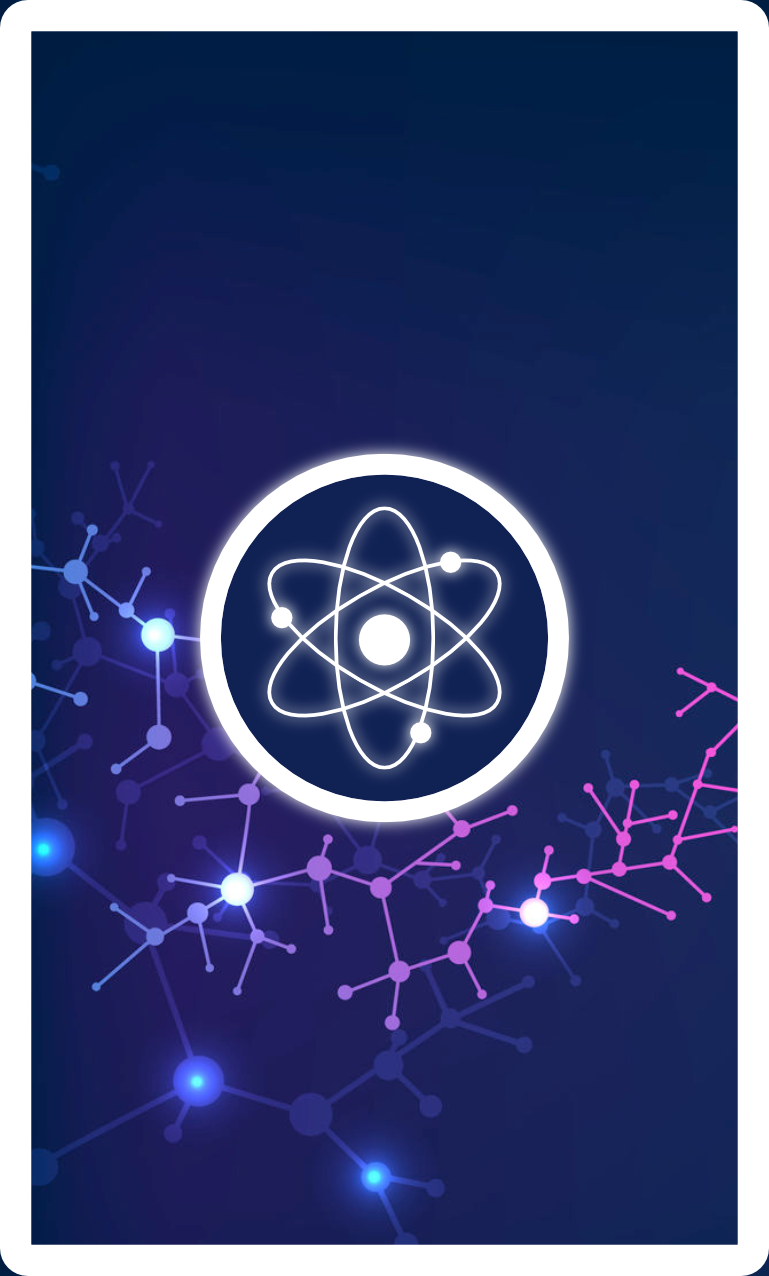
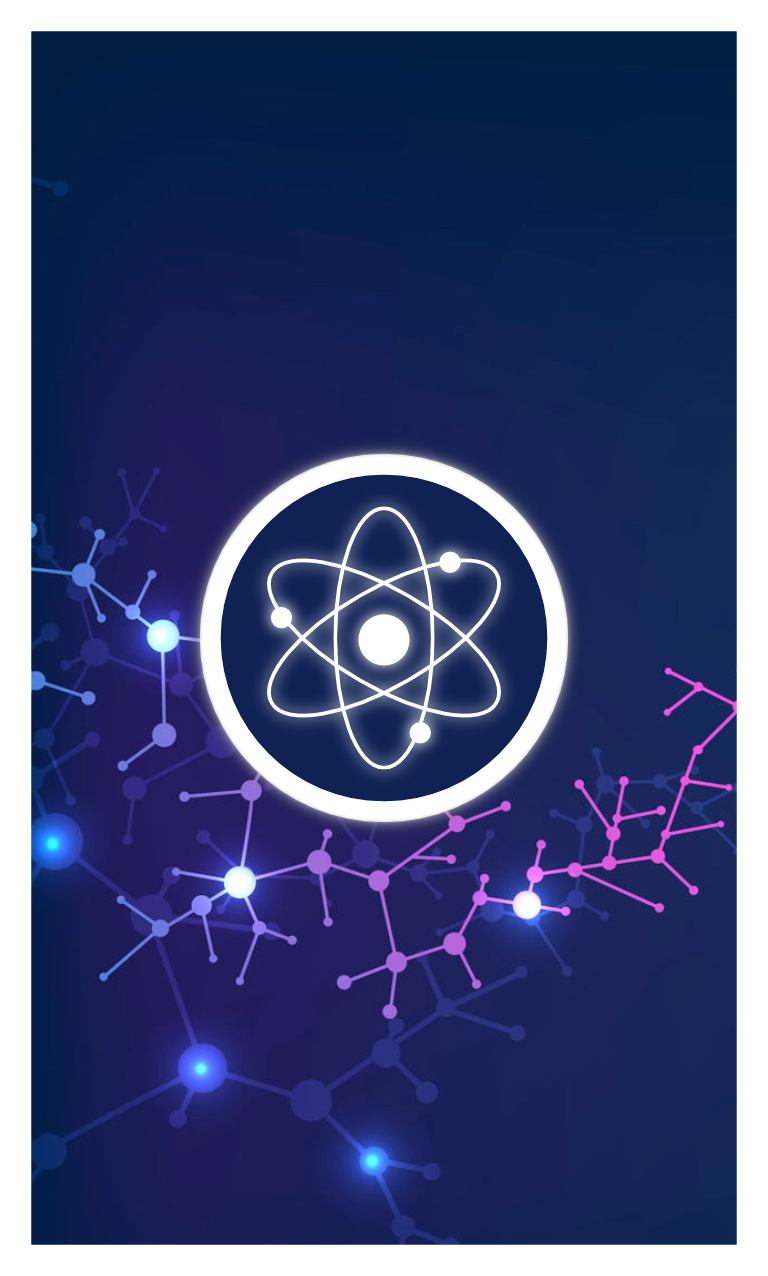
[Card] Modifying description to fit inside cards with increased font size

diff --git a/generate_printing_cards.py b/generate_printing_cards.py
@@ -16,9 +16,12 @@ PAPER_FORMAT_TO_PX_300DPI_MAP = {
 
 def get_n_margin(paper_px, card_px):
     n = int(floor(float(paper_px) / float(card_px)))
-    margin = floor( (float(paper_px) - n * float(card_px)) / float(n+1) )
 
-    return n, margin
+    margin = floor( (float(paper_px) - n * float(card_px)) / float(n+1) )
+    margin_left = margin
+    margin_right = paper_px - n * (margin + card_px)
+
+    return n, margin, margin_left, margin_right
 
 
 if __name__ == "__main__":
@@ -27,7 +30,9 @@ if __name__ == "__main__":
     printing_format = "A4"
     card_dirpath = "/Users/julien/Documents/Projects/tradecards_atom/outputs"
     output_dir = "/Users/julien/Documents/Projects/tradecards_atom/outputs/sheets"
-    show_sheet = False
+    front_card_filepath = "/Users/julien/Documents/Projects/tradecards_atom/assets/front.png"
+    generate_front_card = True
+    show = False
     save = True
     save_as_one_file = True
 
@@ -57,8 +62,8 @@ if __name__ == "__main__":
     paper_px_size = PAPER_FORMAT_TO_PX_300DPI_MAP[printing_format]
     card_px_size = (768, 1276)
 
-    nx, margin_x = get_n_margin(paper_px_size[0], card_px_size[0])
-    ny, margin_y = get_n_margin(paper_px_size[1], card_px_size[1])
+    nx, margin_x, margin_x_left, margin_x_right = get_n_margin(paper_px_size[0], card_px_size[0])
+    ny, margin_y, margin_y_top, margin_y_bottom = get_n_margin(paper_px_size[1], card_px_size[1])
 
     nb_cards_per_paper = int(nx * ny)
     print(f"Expecting {nb_cards_per_paper} cards per paper sheet")
@@ -67,25 +72,51 @@ if __name__ == "__main__":
     print(f"Expecting {nb_paper_sheets} paper sheets")
 
 
+    # FRONT CARD IMAGE GENERATION
+    if generate_front_card:
+        print("Generating front-card image")
+        front_card_img = Image.open(front_card_filepath).convert("RGBA")
+        front_card_sheet_img = Image.new("RGBA", paper_px_size, (255,255,255))
+
+        for i in range(0, nx*ny):
+            k = i
+            x = k%nx
+            y = floor(k/nx)
+
+            border_x = margin_x_right + x * (card_px_size[0] + margin_x)
+            border_y = margin_y_top + y * (card_px_size[1] + margin_y)
+            front_card_sheet_img.paste(front_card_img, (border_x, border_y), front_card_img)
+
+        if show:
+            front_card_sheet_img.show()
+
+
+    # CARD IMAGE GENERATION
+    print("Generating atom card images")
     sheet_imgs = []
 
-    # IMAGE GENERATION
-    print("Generating images")
     with alive_bar(nb_paper_sheets) as bar:
 
         for i in range(0, nb_paper_sheets):
+
+            if generate_front_card and save_as_one_file:
+                sheet_imgs.append(front_card_sheet_img)
     
             sheet_imgs.append(Image.new("RGBA", paper_px_size, (255,255,255)))
     
             for j in range(i*nb_cards_per_paper, min((i+1)*nb_cards_per_paper, len(img_card_filepath))):
-                border_x = margin_x + j%nx * (card_px_size[0] + margin_x)
-                border_y = margin_y + j%ny * (card_px_size[1] + margin_y)
+                k = j%(nx*ny)
+                x = k%nx
+                y = floor(k/nx)
+
+                border_x = margin_x_left + x * (card_px_size[0] + margin_x)
+                border_y = margin_y_top + y * (card_px_size[1] + margin_y)
 
                 card_img = Image.open(img_card_filepath[j]).convert("RGBA")
 
                 sheet_imgs[-1].paste(card_img, (border_x, border_y))
 
-            if show_sheet:
+            if show:
                 sheet_imgs[-1].show()
 
             bar()
@@ -93,6 +124,7 @@ if __name__ == "__main__":
     # SAVE OUTPUT
     if save:
         if save_as_one_file:
+
             sheet_output_path = Path(output_dir) / f"all.pdf"        
             print(f"Saving images as one PDF {sheet_output_path}")
             sheet_imgs[0].save(
@@ -101,8 +133,11 @@ if __name__ == "__main__":
 
         else:
             print("Saving images as PDF")
-            with alive_bar(nb_paper_sheets) as bar:
-                for i in range(0, nb_paper_sheets):        
+            if generate_front_card:
+                sheet_imgs.insert(0, front_card_sheet_img)
+
+            with alive_bar(len(sheet_imgs)) as bar:
+                for i in range(0, len(sheet_imgs)):        
                     sheet_output_path = Path(output_dir) / f"sheet_{i}.pdf"
                     sheet_imgs[-1].save(sheet_output_path, 'PDF', quality=100)
                     bar()

diff --git a/generate_card.py b/generate_card.py
@@ -49,7 +49,7 @@ def generate_tradecard_image(
     atomic_discovery_position = (465, 880)
 
     description_font_path = "/Library/Fonts/AdobeArabic-Regular.otf"
-    description_font_size = 8*4
+    description_font_size = 10*4
     description_color = (255,255,255)
     description = atom_description
     description_position = (65,970)
@@ -64,7 +64,7 @@ def generate_tradecard_image(
     # Draw atom image
     atom_img = Image.open(atom_path).convert("RGBA")
     margin = int((background_img.size[0]-atom_img.size[0])/2)
-    img.paste(atom_img, (margin+1, margin+1), atom_img)
+    img.paste(atom_img, (margin, 31), atom_img)
 
     # Draw background
     img.paste(background_img, (0,0), background_img)
